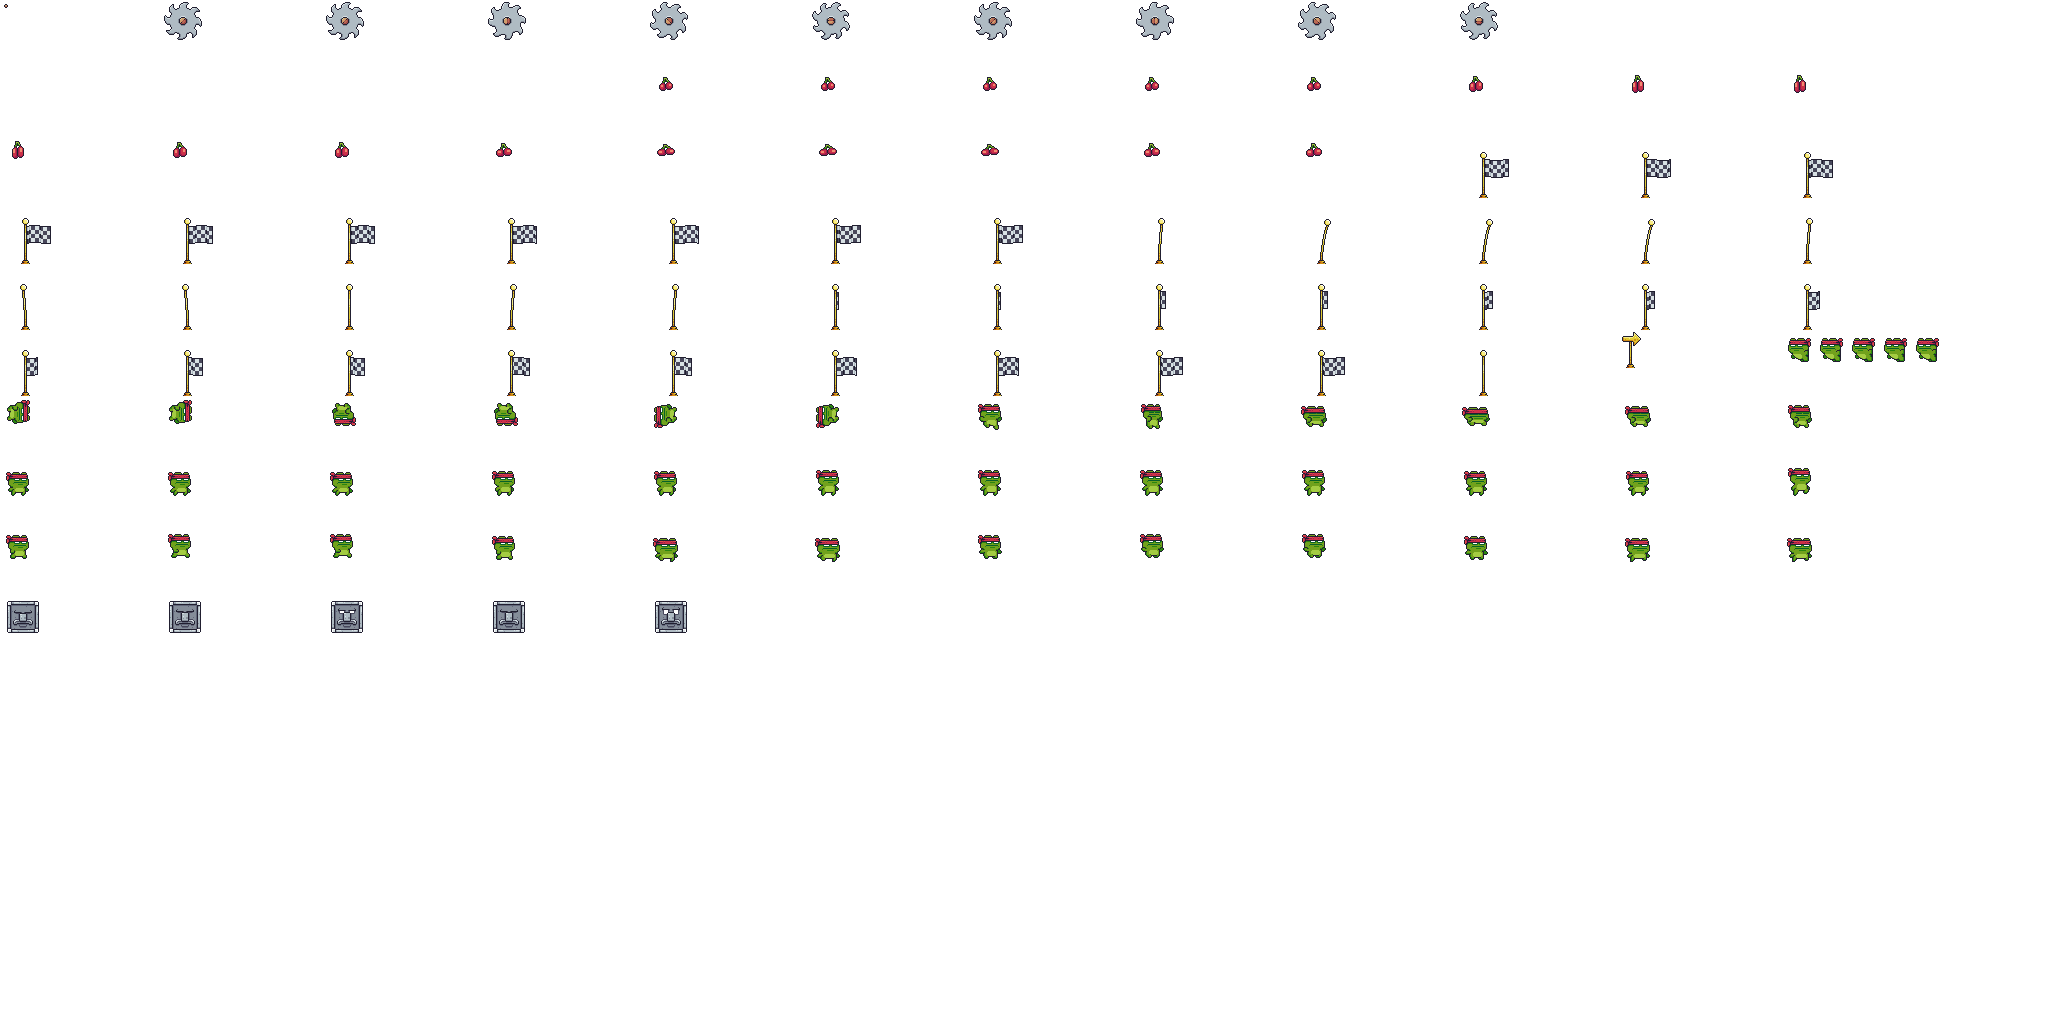
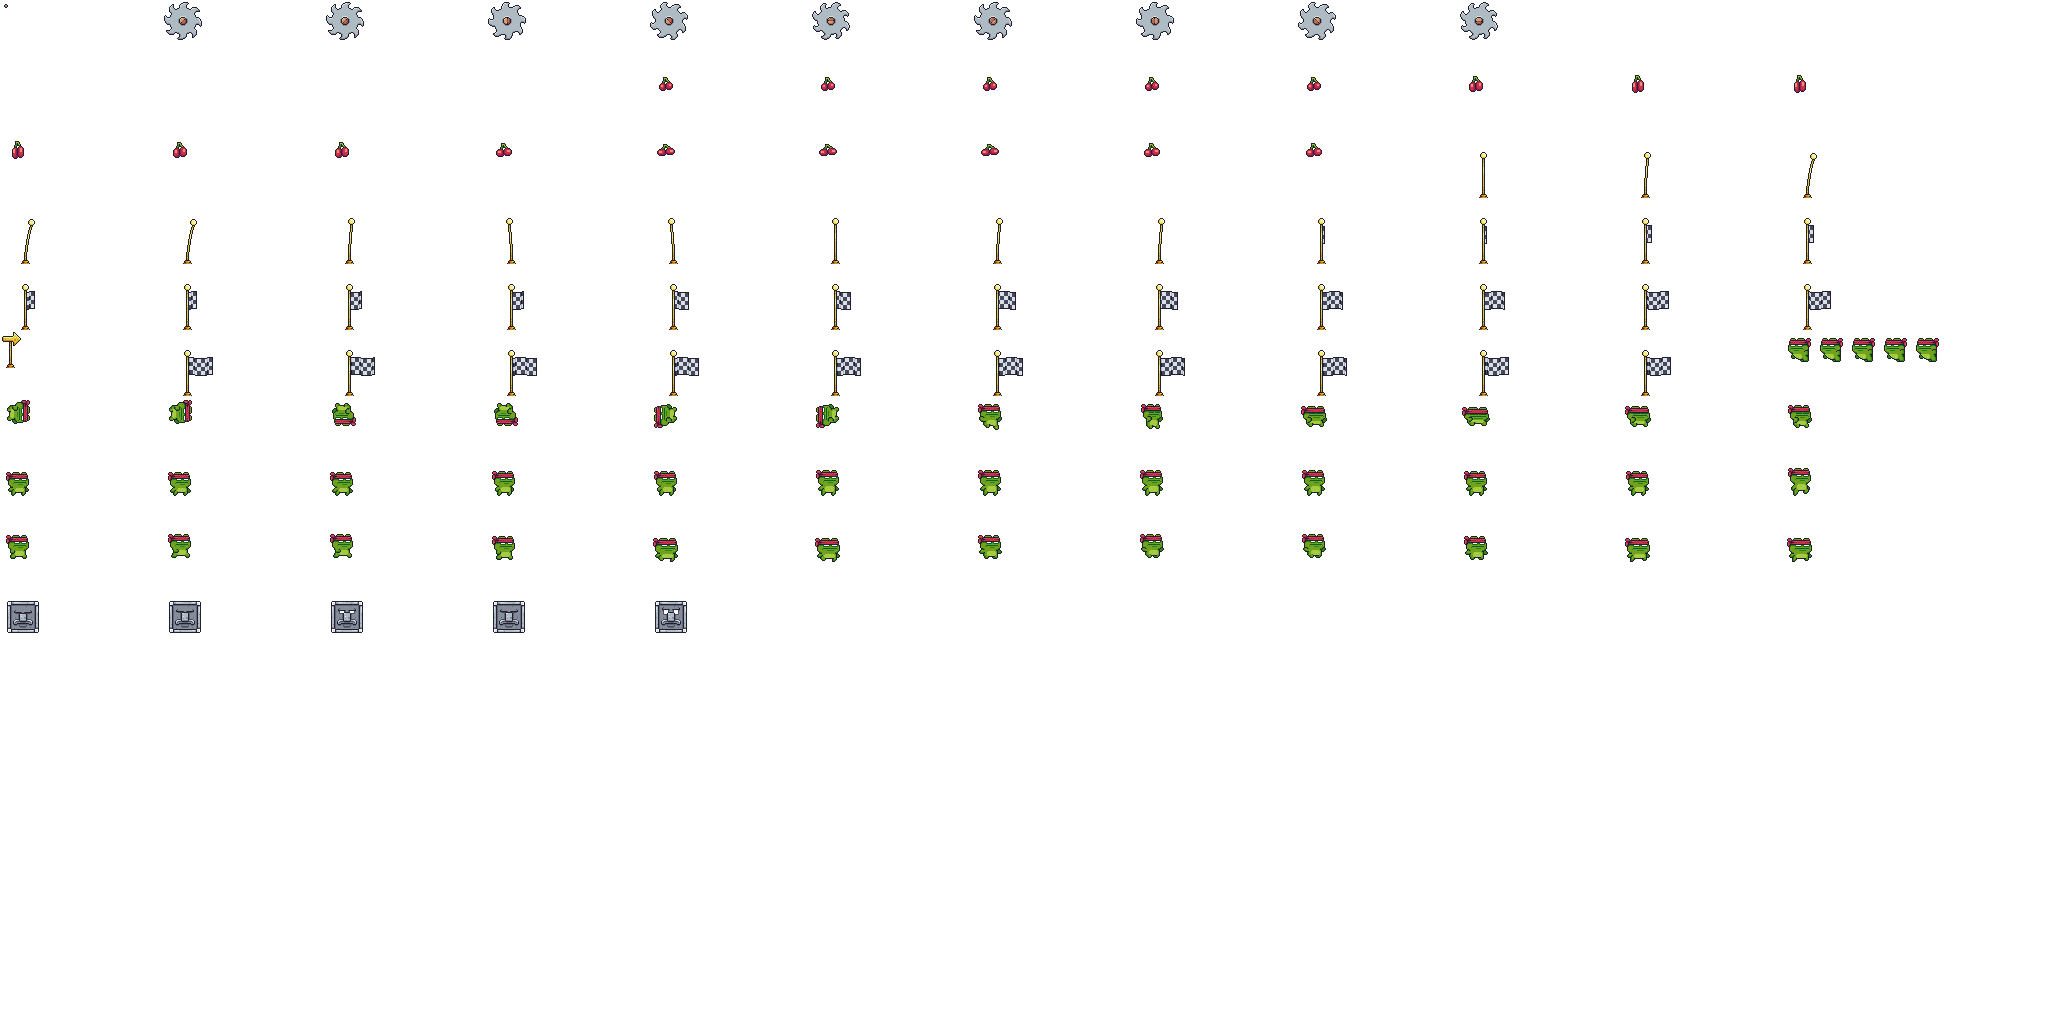
flag function

diff --git a/assets/map/objects.tsx b/assets/map/objects.tsx
@@ -1,5 +1,5 @@
 <?xml version="1.0" encoding="UTF-8"?>
-<tileset version="1.10" tiledversion="1.10.2" name="objects" tilewidth="42" tileheight="42" tilecount="4" columns="0">
+<tileset version="1.10" tiledversion="1.10.2" name="objects" tilewidth="64" tileheight="64" tilecount="6" columns="0">
  <grid orientation="orthogonal" width="1" height="1"/>
  <tile id="0" type="EntityDef">
   <properties>
@@ -127,6 +127,44 @@
     <properties>
      <property name="gameObject" propertytype="GameObject" value="CHERRY"/>
      <property name="isSensor" type="bool" value="true"/>
+    </properties>
+   </object>
+  </objectgroup>
+ </tile>
+ <tile id="4" type="EntityDef">
+  <properties>
+   <property name="animFrameDuration" type="float" value="0.035"/>
+   <property name="bodyType" propertytype="BodyType" value="StaticBody"/>
+   <property name="entityTags" propertytype="EntityTags" value=""/>
+   <property name="gameObject" propertytype="GameObject" value="FINISH_FLAG"/>
+   <property name="startAnimType" propertytype="AnimType" value="IDLE"/>
+  </properties>
+  <image width="64" height="64" source="../graphics/finish_flag.png"/>
+  <objectgroup draworder="index" id="2">
+   <object id="1" type="FixtureDef" x="22" y="18" width="3" height="46">
+    <properties>
+     <property name="gameObject" propertytype="GameObject" value="FINISH_FLAG"/>
+     <property name="isSensor" type="bool" value="true"/>
+     <property name="userData" value="finish_flag"/>
+    </properties>
+   </object>
+  </objectgroup>
+ </tile>
+ <tile id="5" type="EntityDef">
+  <properties>
+   <property name="animFrameDuration" type="float" value="1"/>
+   <property name="bodyType" propertytype="BodyType" value="StaticBody"/>
+   <property name="entityTags" propertytype="EntityTags" value=""/>
+   <property name="gameObject" propertytype="GameObject" value="START_FLAG"/>
+   <property name="startAnimType" propertytype="AnimType" value="START"/>
+  </properties>
+  <image width="19" height="36" source="../graphics/start_flag.png"/>
+  <objectgroup draworder="index" id="2">
+   <object id="1" type="FixtureDef" x="0" y="0" width="19" height="36">
+    <properties>
+     <property name="gameObject" propertytype="GameObject" value="START_FLAG"/>
+     <property name="isSensor" type="bool" value="true"/>
+     <property name="userData" value="start_flag"/>
     </properties>
    </object>
   </objectgroup>

diff --git a/core/src/main/kotlin/com/fatih/pixeladventure/ecs/system/PhysicSystem.kt b/core/src/main/kotlin/com/fatih/pixeladventure/ecs/system/PhysicSystem.kt
@@ -179,6 +179,26 @@ class PhysicSystem(
         }
     }
 
+    private fun isFinishFlagCollision(entityA: Entity,fixtureA: Fixture,fixtureB: Fixture): Boolean {
+        return entityA has EntityTag.PLAYER && fixtureA.isHitBox() && fixtureB.userData == "finish_flag"
+    }
+
+    private fun handleFinishFlagCollision(playerEntity: Entity,flagEntity: Entity,flagFixture: Fixture) = with(world){
+
+        playerEntity.configure {
+            it -= EntityTag.PLAYER
+            val body = it[Physic].body
+            body.setLinearVelocity(it[Move].max,body.linearVelocity.y)
+            body.linearDamping = 2f
+            it -= Move
+        }
+
+        animation(flagEntity,AnimationType.RUN,PlayMode.NORMAL,AnimationType.WAVE)
+        val animComp = flagEntity[Animation]
+        animComp.nextAnimation = AnimationType.WAVE
+        flagFixture.userData = ""
+    }
+
     override fun beginContact(contact: Contact) {
         val fixtureA = contact.fixtureA
         val fixtureB = contact.fixtureB
@@ -198,6 +218,8 @@ class PhysicSystem(
             isAggroSensorCollision(entityB,fixtureB,fixtureA,true) -> handleAggroBeginContact(entityB,entityA)
             isCollectableCollision(entityA,entityB,fixtureA) -> handleCollectableBeginContact(entityA,entityB)
             isCollectableCollision(entityB,entityA,fixtureB) -> handleCollectableBeginContact(entityB,entityA)
+            isFinishFlagCollision(entityA,fixtureA,fixtureB) -> handleFinishFlagCollision(entityA,entityB,fixtureB)
+            isFinishFlagCollision(entityB,fixtureB,fixtureA) -> handleFinishFlagCollision(entityB,entityA,fixtureA)
         }
     }
 

diff --git a/core/src/main/kotlin/com/fatih/pixeladventure/ecs/system/AnimationSystem.kt b/core/src/main/kotlin/com/fatih/pixeladventure/ecs/system/AnimationSystem.kt
@@ -29,7 +29,7 @@ class AnimationSystem(
     override fun onTickEntity(entity: Entity) {
         val animationComp = entity[Animation]
         if (animationComp.gdxAnimation == null) return
-        val (gdxAnimation,timer) = animationComp
+        val (gdxAnimation,timer,_,nextAnimation) = animationComp
         val (sprite) = entity[Graphic]
         sprite.setRegion(gdxAnimation!!.getKeyFrame(timer).apply {
             entity.getOrNull(Move)?.let { moveComp ->
@@ -40,13 +40,19 @@ class AnimationSystem(
         })
         val velocityMultiplier = if (entity has Physic) abs(entity[Physic].body.linearVelocity.x / 4f) else 1f
         animationComp.timer += deltaTime * max(1f,velocityMultiplier)
+        if (gdxAnimation.isAnimationFinished(timer) && nextAnimation != null){
+            entityAnimation(entity,nextAnimation,PlayMode.LOOP)
+            animationComp.nextAnimation = null
+        }
     }
 
     fun entityAnimation(entity: Entity, animationType: AnimationType,playMode: PlayMode) {
         val (_,gameObject) = entity[Tiled]
         val animationAtlasKey = "${gameObject.atlasKey}/${animationType.atlasKey}"
+
         val gdxAnimation = gdxAnimationCache.getOrPut(animationAtlasKey){
             val regions = objectAtlas.findRegions(animationAtlasKey)
+
             if (regions.isEmpty){
                 gdxError("There are no regions for the animation $animationAtlasKey")
             }

diff --git a/core/src/main/kotlin/com/fatih/pixeladventure/ecs/component/Animation.kt b/core/src/main/kotlin/com/fatih/pixeladventure/ecs/component/Animation.kt
@@ -7,11 +7,11 @@ import com.github.quillraven.fleks.ComponentType
 typealias GdxAnimation = com.badlogic.gdx.graphics.g2d.Animation<TextureRegion>
 
 enum class AnimationType{
-    IDLE,FALL,RUN,JUMP,DOUBLE_JUMP,HIT,OFF,ON,AGGRO,NONE;
+    IDLE,FALL,RUN,JUMP,DOUBLE_JUMP,HIT,OFF,ON,AGGRO,NONE,START,WAVE;
     val atlasKey : String = this.name.lowercase()
 }
 
-data class Animation(var gdxAnimation : GdxAnimation? = null,var timer : Float = 0f,var frameDuration : Float) : Component <Animation> {
+data class Animation(var gdxAnimation : GdxAnimation? = null,var timer : Float = 0f,var frameDuration : Float,var nextAnimation : AnimationType? = null) : Component <Animation> {
 
     override fun type() = Animation
 

diff --git a/core/src/main/kotlin/com/fatih/pixeladventure/util/FleksUtils.kt b/core/src/main/kotlin/com/fatih/pixeladventure/util/FleksUtils.kt
@@ -7,7 +7,7 @@ import com.fatih.pixeladventure.ecs.system.AnimationSystem
 import com.github.quillraven.fleks.Entity
 import com.github.quillraven.fleks.World
 
-fun World.animation(entity: Entity,animationType: AnimationType,playMode : PlayMode = PlayMode.LOOP) {
+fun World.animation(entity: Entity,animationType: AnimationType,playMode : PlayMode = PlayMode.LOOP,nextAnimation : AnimationType? = null) {
     if (entity has EntityTag.PLAYER) println(animationType)
     val animationSystem = this.system<AnimationSystem>()
     animationSystem.entityAnimation(entity,animationType,playMode)

diff --git a/core/src/main/kotlin/com/fatih/pixeladventure/util/GameObject.kt b/core/src/main/kotlin/com/fatih/pixeladventure/util/GameObject.kt
@@ -17,7 +17,8 @@ enum class GameObject(val categoryBit : Short, val maskBits : Short) {
     GROUND(GROUND_BIT, PLAYER_BIT or CHAINSAW_BIT or ROCK_HEAD_BIT),
     ROCK_HEAD(ROCK_HEAD_BIT, PLAYER_BIT or GROUND_BIT),
     CHERRY(FRUIT_BIT, PLAYER_BIT),
-    FLAG(FLAG_BIT, PLAYER_BIT),
+    START_FLAG(FLAG_BIT, PLAYER_BIT),
+    FINISH_FLAG(FLAG_BIT, PLAYER_BIT),
     PLATFORM(PLATFORM_BIT, PLAYER_BIT);
-    val atlasKey = this.name.lowercase()
+    val atlasKey = if (this.name == "START_FLAG" || this.name == "FINISH_FLAG") "flag" else this.name.lowercase()
 }

diff --git a/core/src/main/kotlin/com/fatih/pixeladventure/ecs/system/JumpSystem.kt b/core/src/main/kotlin/com/fatih/pixeladventure/ecs/system/JumpSystem.kt
@@ -54,7 +54,7 @@ class JumpSystem(
 
         physicWorld.query(lowerX,lowerY,upperX,upperY){fixture ->
             if (fixture.filterData.categoryBits == GROUND_BIT ||
-                fixture.filterData.categoryBits == ROCK_HEAD_BIT ||
+                (fixture.filterData.categoryBits == ROCK_HEAD_BIT && fixture.userData == "hitbox") ||
                 fixture.filterData.categoryBits == PLATFORM_BIT){
                 applyJumpForce(jumpComps,body,maxHeight)
             }

diff --git a/core/src/main/kotlin/com/fatih/pixeladventure/tiled/TiledService.kt b/core/src/main/kotlin/com/fatih/pixeladventure/tiled/TiledService.kt
@@ -50,6 +50,7 @@ import ktx.tiled.height
 import ktx.tiled.id
 import ktx.tiled.layer
 import ktx.tiled.property
+import ktx.tiled.propertyOrNull
 import ktx.tiled.width
 import ktx.tiled.x
 import ktx.tiled.y
